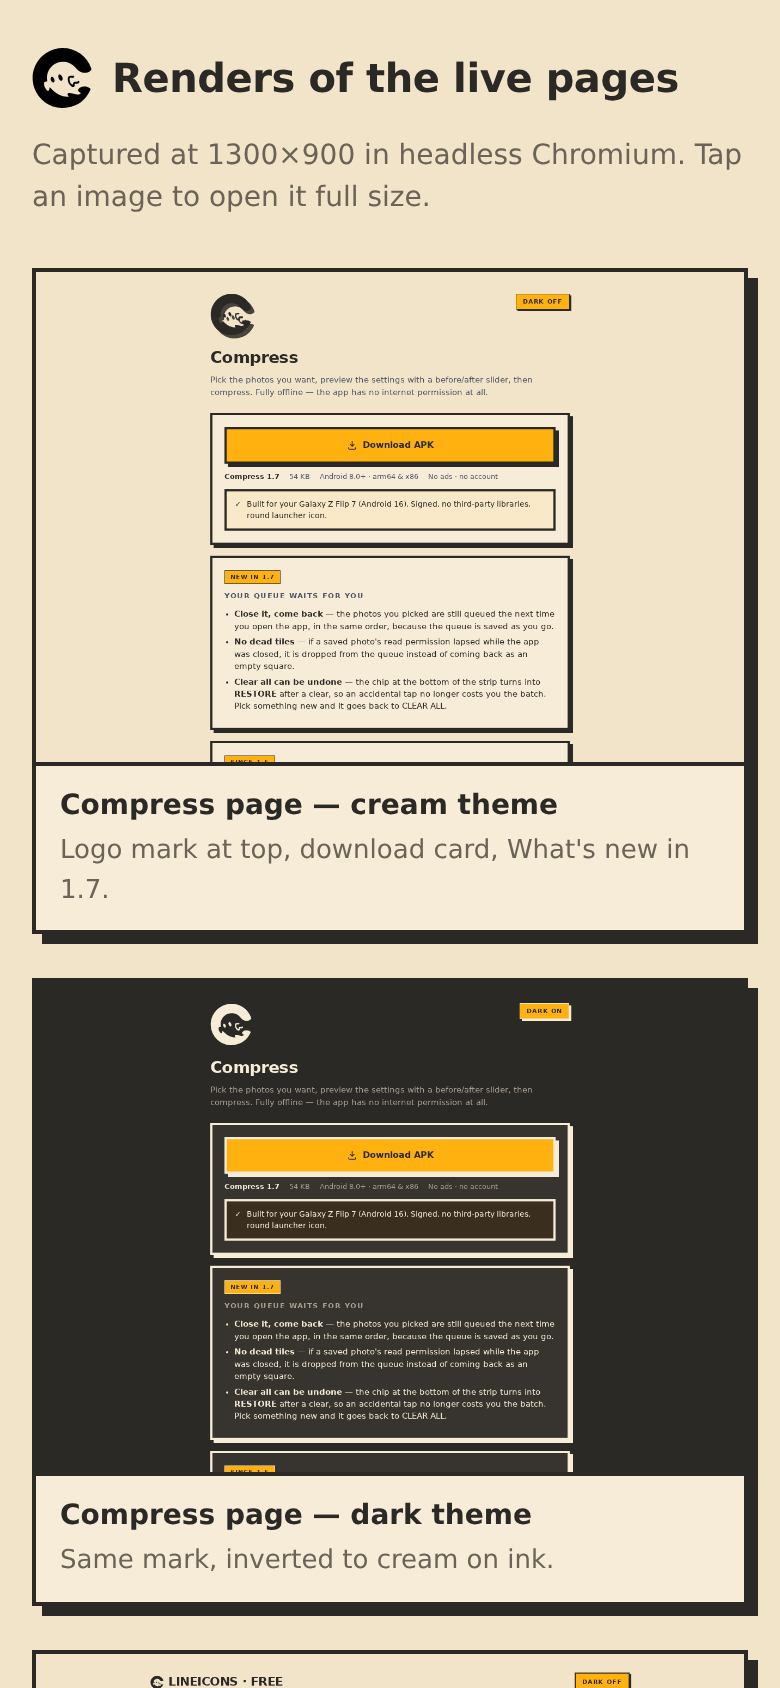
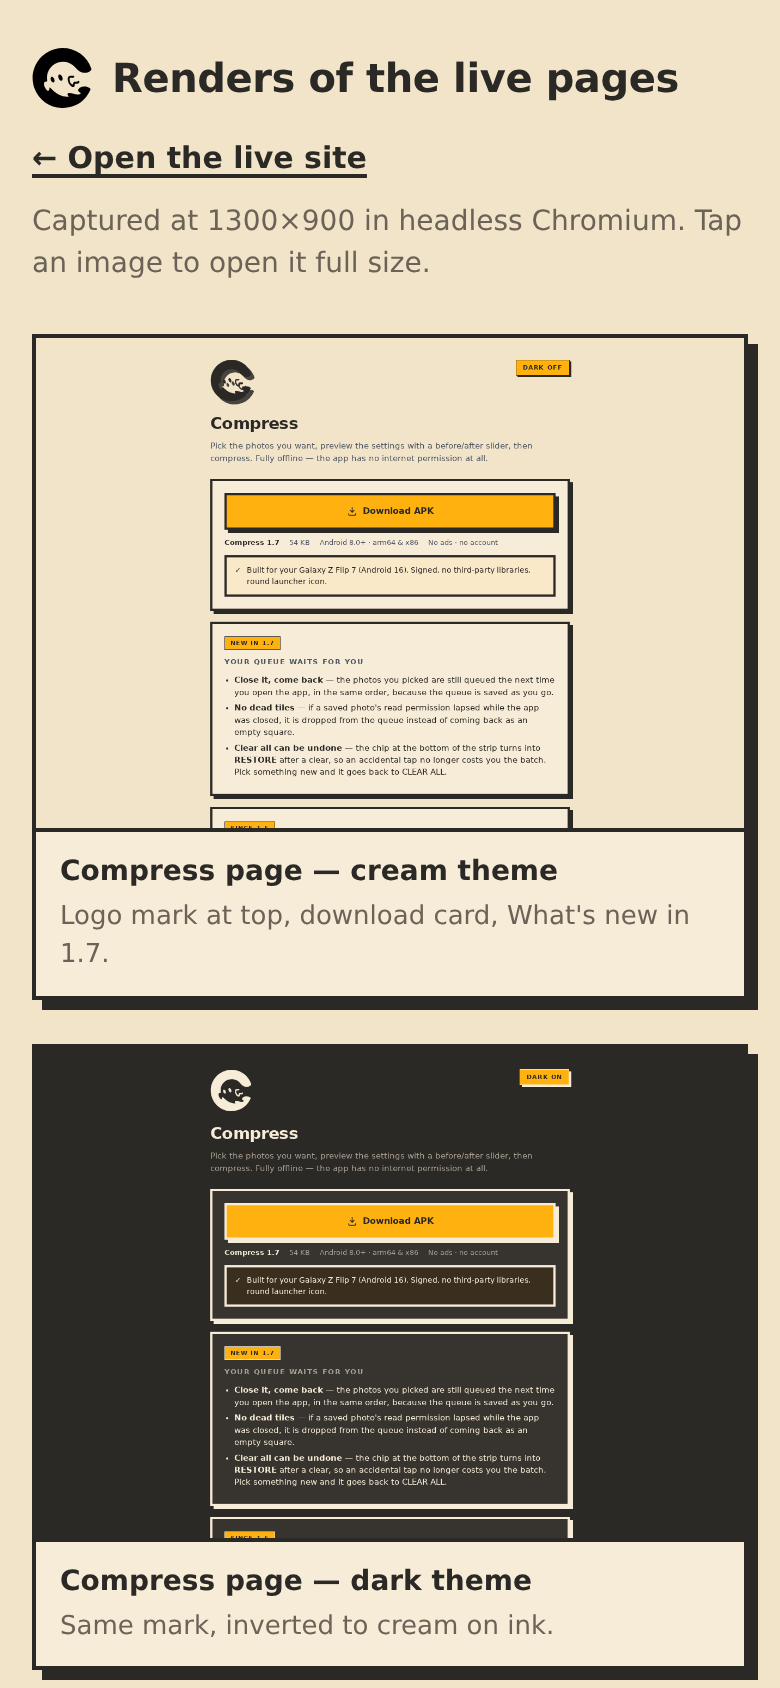
Add the gallery's own phone capture
The gallery changed when it gained the site link, so it now shows the capture
that proves the link and the layout work at 390x844.

🤖 Generated with Codebuff

diff --git a/docs/renders/index.html b/docs/renders/index.html
@@ -60,6 +60,10 @@
     <a href="logo-dark.png"><img class="shot" src="logo-dark.png" alt="The logo drawn in cream on a dark background." loading="lazy" /></a>
     <figcaption>Logo — on ink <span>Same file, currentColor fill.</span></figcaption>
   </figure>
+  <figure>
+    <a href="gallery-phone.png"><img class="shot" src="gallery-phone.png" alt="This gallery page at phone width." loading="lazy" /></a>
+    <figcaption>This gallery — phone width <span>Captured at 390x844 to check the page you are reading.</span></figcaption>
+  </figure>
 </main>
 </body>
 </html>
